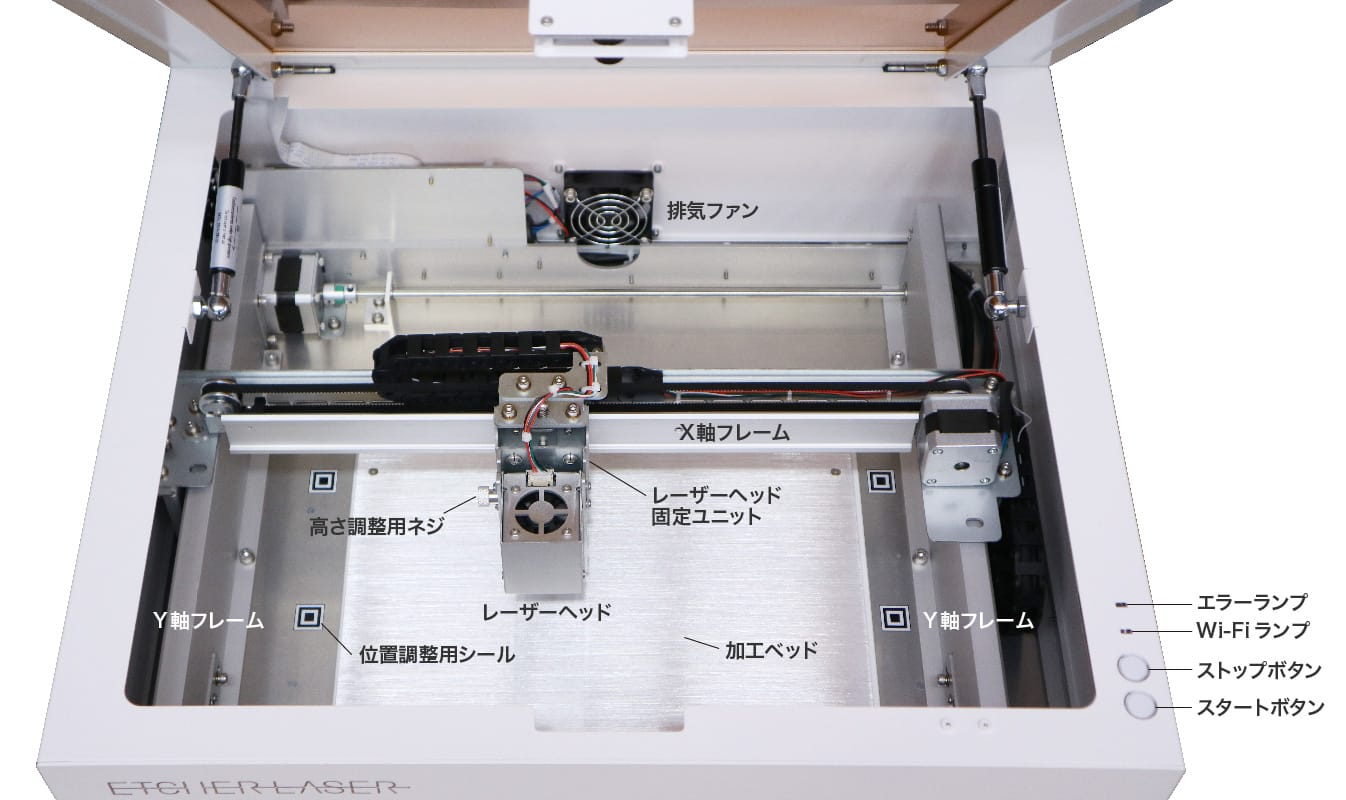
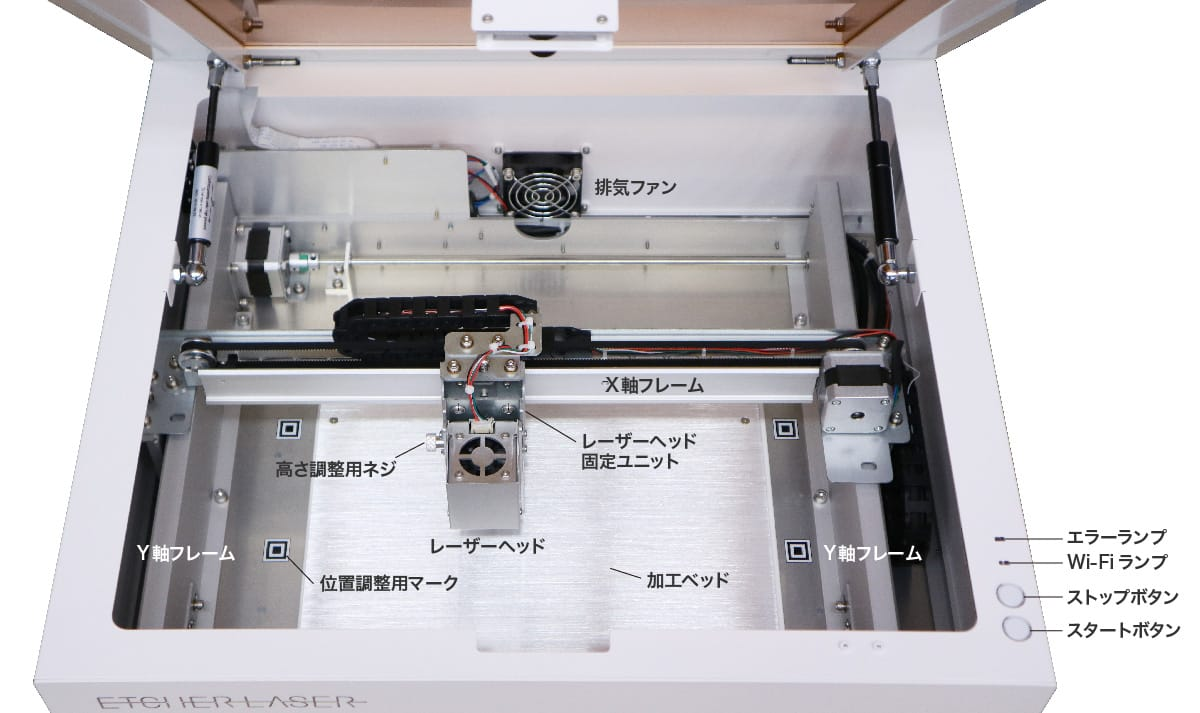
メンテンナンス追加

diff --git a/JP/Etcher_Laser/manual/maintenance.md b/JP/Etcher_Laser/manual/maintenance.md
@@ -1,0 +1,47 @@
+## レーザーヘッドのメンテナンス
+レーザーヘッドのに取り付いてるレンズは、ホコリやヤニ汚れが付着するため定期的なクリーニングが必要です。
+
+
+電源がOFFになっているのを確認し、ACケーブル・USBケーブルを本体から抜いてください。
+
+レーザーヘッドのケーブルを外します。ケーブルを引っ張るのではなく、白いコネクタ部分をしっかりと掴みながら外してください。
+<img src="./images/maintenace_1.jpg">
+
+高さ調整用ネジを緩め、レーザーヘッドをレーザーヘッド固定ユニットから外します。
+<img src="./images/maintenace_2.jpg">
+
+レーザーヘッドのレンズ部分は、カメラ用レンズクリーナーなどを使用してクリーニングをしてください。
+※クリーナーはアルコールを含まないものをご使用ください。また絶対にレンズには手で触らないでください
+<img src="./images/maintenace_3.jpg">
+
+レンズ以外の汚れた部分は、布等で拭き取ってください。
+
+クリーニング終了後、レーザーヘッドをレーザーヘッド固定ユニットに取り付け、ケーブルをコネクタに接続します。
+
+## 加工ベッドのメンテナンス
+木材や紙などを加工した際、素材から発生するヤニが加工ベッドに付着することがあります。
+<img src="./images/maintenace_4.jpg">
+
+アルコールを含んだウェットティッシュ等を使用することによりキレイに拭き取ることができます。
+<img src="./images/maintenace_5.jpg">
+
+## フレームのメンテナンス
+フレームに汚れやホコリが付着していると、正確に加工が出来ないため定期的なクリーニングが必要です。
+X軸フレーム、Y軸フレームのホイールが通る部分を、布などで拭いてください。
+<img src="./images/maintenace_6.jpg">
+<img src="./images/maintenace_7.jpg">
+
+
+## カメラ・位置調整用マークのメンテナンス
+カメラがうまく加工ベッドを撮影できない場合、カメラレンズのクリーニング及び、位置調整用マークの確認を行います。
+
+ドアに取り付いているカメラを、カメラ用レンズクリーナーなどを使用してクリーニングをしてください。
+※絶対にレンズには手で触らないでください。
+<img src="./images/maintenace_8.jpg">
+
+位置調整用マークに削れている部分がないか確認してください。
+削れている部分がある場合、予備のシールをマークの上から貼り付けてください。
+※シールが曲がらないように貼り付けてください
+<img src="./images/maintenace_9.jpg">
+
+<img src="./images/maintenace_10.jpg">

diff --git a/EN/Etcher_Laser/manual/first_processing_mobile.md b/EN/Etcher_Laser/manual/first_processing_mobile.md
@@ -6,7 +6,7 @@
 
 正常に接続されている場合、アプリケーション上部に「接続済み」と表示されます。
 
-素材を配置します。Etcher Laser のドアを開き、加工ベッドの中央に置きます。このとき、加工ベッドの周辺にあるカメラの位置調整用のシール（白黒の四角）を、素材で傷つけたり隠さないようにご注意ください。
+素材を配置します。Etcher Laser のドアを開き、加工ベッドの中央に置きます。このとき、加工ベッドの周辺にあるカメラの位置調整用のマーク（白黒の四角）を、素材で傷つけたり隠さないようにご注意ください。
 
 アプリケーション右上のメニューからの「原点復帰」をクリックします。すると、レーザーヘッドが原点（左上）に移動します。次に「位置確認」をクリックします。ソフトウェアのグラフィックエリアにレーザーヘッドのイラストが表示され、このイラストをドラッグすることで、レーザーヘッドを任意の位置に移動させることができます。この機能を使い、レーザーヘッドを素材の真上に移動させます。
 

diff --git a/JP/Etcher_Laser/manual/first_processing_mobile.md b/JP/Etcher_Laser/manual/first_processing_mobile.md
@@ -6,7 +6,7 @@
 
 正常に接続されている場合、アプリケーション上部に「接続済み」と表示されます。
 
-素材を配置します。Etcher Laser のドアを開き、加工ベッドの中央に置きます。このとき、加工ベッドの周辺にあるカメラの位置調整用のシール（白黒の四角）を、素材で傷つけたり隠さないようにご注意ください。
+素材を配置します。Etcher Laser のドアを開き、加工ベッドの中央に置きます。このとき、加工ベッドの周辺にあるカメラの位置調整用のマーク（白黒の四角）を、素材で傷つけたり隠さないようにご注意ください。
 
 アプリケーション右上のメニューからの「原点復帰」をクリックします。すると、レーザーヘッドが原点（左上）に移動します。次に「位置確認」をクリックします。ソフトウェアのグラフィックエリアにレーザーヘッドのイラストが表示され、このイラストをドラッグすることで、レーザーヘッドを任意の位置に移動させることができます。この機能を使い、レーザーヘッドを素材の真上に移動させます。
 

diff --git a/EN/Etcher_Laser/manual/first_processing_pc.md b/EN/Etcher_Laser/manual/first_processing_pc.md
@@ -10,7 +10,7 @@
 
 <img src="./images/first_processing_pc_2.jpg">
 
-ベッドの中央に素材を置きます。このとき、ベッドの周辺にあるカメラの位置調整用のシール（白黒の四角）を隠さないようにご注意ください。
+ベッドの中央に素材を置きます。このとき、ベッドの周辺にあるカメラの位置調整用のマーク（白黒の四角）を隠さないようにご注意ください。
 
 <img src="./images/first_processing_pc_3.jpg">
 

diff --git a/JP/Etcher_Laser/manual/first_processing_pc.md b/JP/Etcher_Laser/manual/first_processing_pc.md
@@ -15,7 +15,7 @@
 
 <img src="./images/first_processing_pc_2.jpg">
 
-ベッドの中央に素材を置きます。このとき、ベッドの周辺にあるカメラの位置調整用のシール（白黒の四角）を隠さないようにご注意ください。
+ベッドの中央に素材を置きます。このとき、ベッドの周辺にあるカメラの位置調整用のマーク（白黒の四角）を隠さないようにご注意ください。
 
 <img src="./images/first_processing_pc_3.jpg">
 
